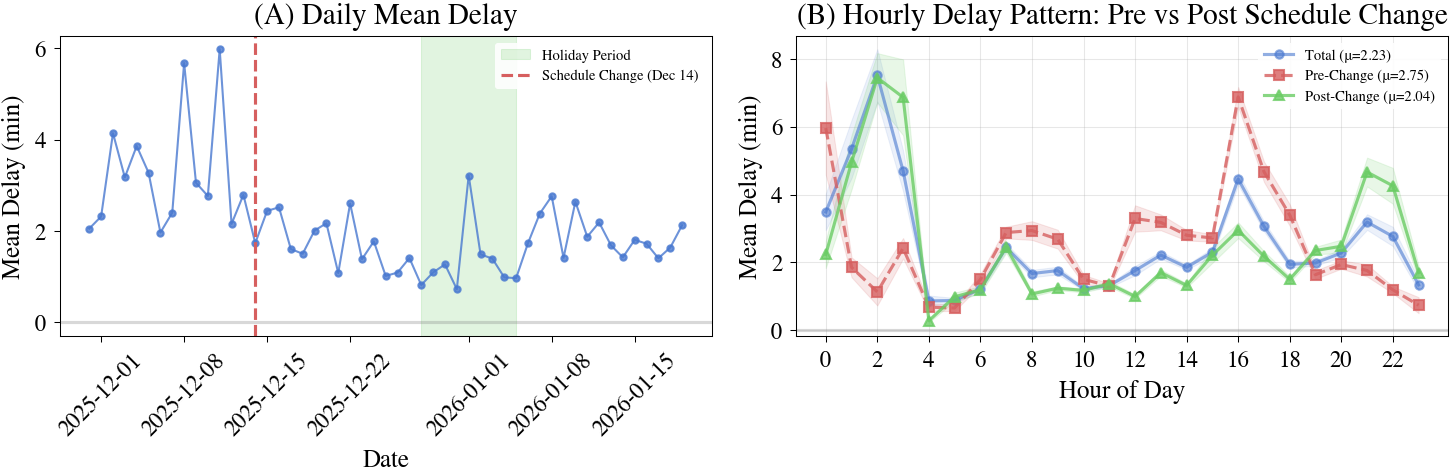
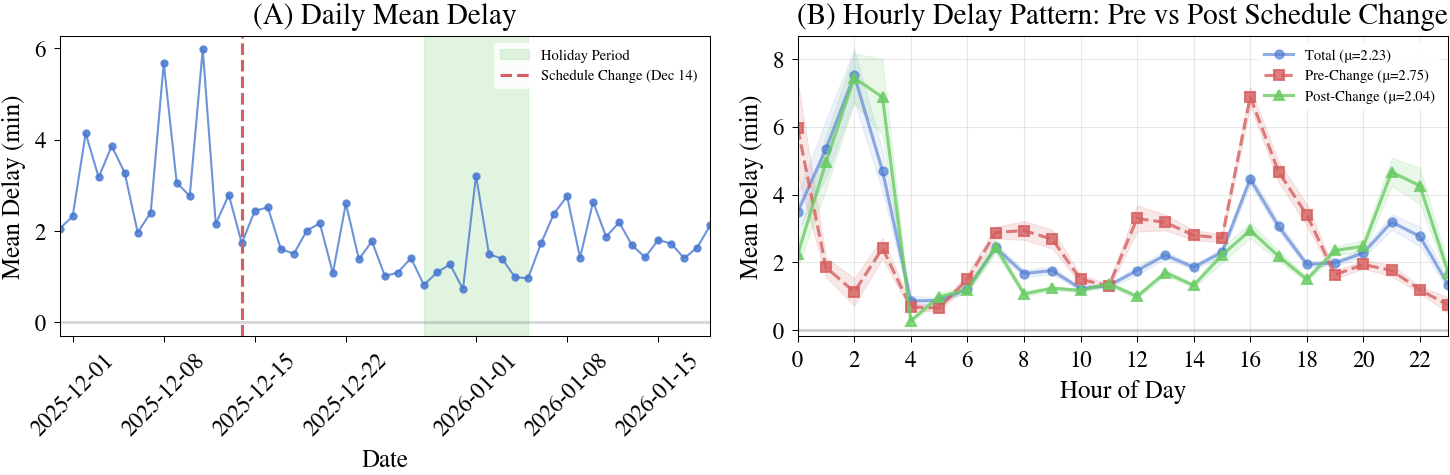
fix: zero values

diff --git a/scripts/fig2_schedule_change.py b/scripts/fig2_schedule_change.py
@@ -236,6 +236,7 @@ def main():
     ax.set_xlabel('Date')
     ax.set_ylabel('Mean Delay (min)')
     ax.set_title('(A) Daily Mean Delay')
+    ax.set_xlim(daily_filtered['date'].min(), daily_filtered['date'].max())
     ax.legend(fontsize=7, loc='upper right')
     ax.tick_params(axis='x', rotation=45)
     
@@ -289,6 +290,7 @@ def main():
     ax.set_xlabel('Hour of Day')
     ax.set_ylabel('Mean Delay (min)')
     ax.set_title('(B) Hourly Delay Pattern: Pre vs Post Schedule Change')
+    ax.set_xlim(total_hourly['hour'].min(), total_hourly['hour'].max())
     ax.set_xticks(range(0, 24, 2))
     ax.grid(alpha=0.3)
 
